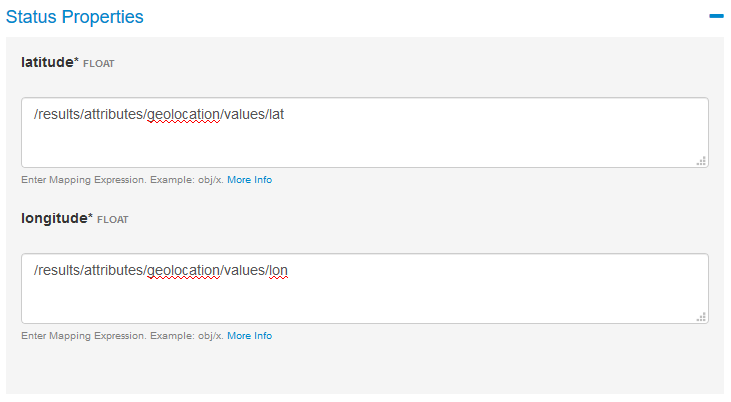
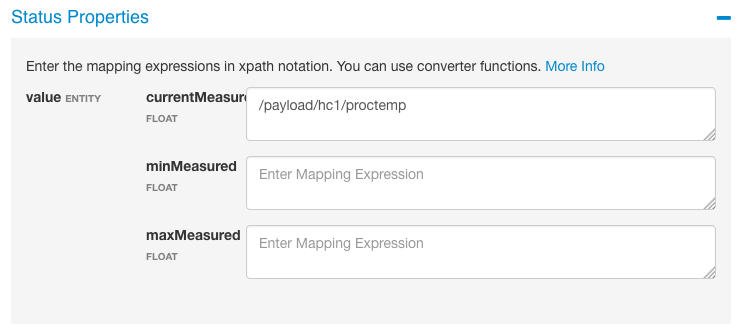
Feature/getting started mapping (#1935)
* Fixed css for mapping editor. Updated screenshots for getting started

* fixed bug with search public models by namespace

diff --git a/repository/repository-web/dist/partials/mapping/includes/fbmapping-template.html b/repository/repository-web/dist/partials/mapping/includes/fbmapping-template.html
@@ -62,7 +62,7 @@
 			    								<label ng-show="isEnumModel(entityProperty)" for="{{entityProperty.name}}" class="col-sm-2 col-form-label">{{entityProperty.name}} <small style="color:grey;font-size:10px">ENUM</small></label>
 			    								<div class="col-sm-10">
 			    								    <textarea ng-required="entityProperty.mandatory" ng-disabled="state !== 'Draft'" placeholder="Enter Mapping Expression" class="form-control" name="{{entityProperty.name}}" id="{{entityProperty.name}}" ng-model="entityProperty.stereotypes[0].attributes['xpath']"></textarea>
-			    									<span class="error" ng-show="{{property.name}}MappingForm.{{statusProperty.name}}.$error.required && entityProperty.mandatory" style="color:red;font-size:12px">Cannot be blank<br></span>    		
+			    									<span class="error" ng-show="{{property.name}}MappingForm.{{entityProperty.name}}.$error.required && entityProperty.mandatory" style="color:red;font-size:12px">Cannot be blank<br></span>    		
 			    								</div>
   											</div>
 										</div>
@@ -91,7 +91,7 @@
     											<label for="{{entityProperty.name}}" class="col-sm-2 col-form-label">{{entityProperty.name}} <small style="color:grey;font-size:10px">{{entityProperty.type}}</small></label>
 			    								<div class="col-sm-10">
 			    								    <textarea ng-required="entityProperty.mandatory" ng-disabled="state !== 'Draft'" placeholder="Enter Mapping Expression" class="form-control" name="{{entityProperty.name}}" id="{{entityProperty.name}}" ng-model="entityProperty.stereotypes[0].attributes['xpath']"></textarea>
-			    									<span class="error" ng-show="{{property.name}}MappingForm.{{statusProperty.name}}.$error.required && entityProperty.mandatory" style="color:red;font-size:12px">Cannot be blank<br></span>    		
+			    									<span class="error" ng-show="{{property.name}}MappingForm.{{entityProperty.name}}.$error.required && entityProperty.mandatory" style="color:red;font-size:12px">Cannot be blank<br></span>    		
 			    								</div>
   											</div>
 										</div>

diff --git a/repository/repository-web/dist/partials/mapping/mappingcreator.html b/repository/repository-web/dist/partials/mapping/mappingcreator.html
@@ -76,15 +76,15 @@
 				<uib-tabset justified="false">
 					<uib-tab heading="Canonical">
 						Eclipse Vorto canonical format
-		  				<pretty-json json="canonical" style="height: 200px;"></pretty-json>
+		  				<pretty-json json="canonical"></pretty-json>
 					</uib-tab>
 					<uib-tab heading="AWS IoT">
 						Update command for AWS IoT Shadow Service
-		  				<pretty-json json="awsiot" style="height: 200px;"></pretty-json>
+		  				<pretty-json json="awsiot"></pretty-json>
 					</uib-tab>
 					<uib-tab heading="Eclipse Ditto">
 						Update command for Eclipse Ditto Service
-		  				<pretty-json json="ditto" style="height: 200px;"></pretty-json>
+		  				<pretty-json json="ditto"></pretty-json>
 					</uib-tab>
 				</uib-tabset>
 			</div>

diff --git a/repository/repository-web/dist/js/controllers/manage/tenantManagement.js b/repository/repository-web/dist/js/controllers/manage/tenantManagement.js
@@ -204,7 +204,7 @@ repositoryControllers.controller("tenantManagementController",
 					};
 					
 					$scope.getPublicModelsForTenant = function() {
-						$http.get("./rest/search/public?tenantId="+tenant.tenantId).success(
+						$http.get("./rest/search/public?namespace="+tenant.defaultNamespace).success(
                             function(data, status, headers, config) {
                             	console.log(data);
                                 $scope.hasPublicModels = data.length > 0;

diff --git a/repository/repository-core/src/main/java/org/eclipse/vorto/repository/web/api/v1/ImportController.java b/repository/repository-core/src/main/java/org/eclipse/vorto/repository/web/api/v1/ImportController.java
@@ -30,6 +30,7 @@ import org.eclipse.vorto.repository.importer.IModelImporter;
 import org.eclipse.vorto.repository.importer.UploadModelResult;
 import org.eclipse.vorto.repository.tenant.ITenantService;
 import org.eclipse.vorto.repository.tenant.TenantDoesntExistException;
+import org.eclipse.vorto.repository.web.AbstractRepositoryController;
 import org.eclipse.vorto.repository.web.api.v1.dto.ImporterInfo;
 import org.eclipse.vorto.repository.web.core.exceptions.UploadTooLargeException;
 import org.eclipse.vorto.repository.workflow.IWorkflowService;
@@ -55,7 +56,7 @@ import io.swagger.annotations.ApiParam;
  */
 @RestController
 @RequestMapping(value = "/api/v1/importers")
-public class ImportController {
+public class ImportController extends AbstractRepositoryController {
 
   private final Logger LOGGER = LoggerFactory.getLogger(getClass());
 
@@ -127,7 +128,7 @@ public class ImportController {
       return new ResponseEntity<List<ModelInfo>>(importedModels, HttpStatus.OK);
     } catch (Exception e) {
       LOGGER.error("Error Importing model. " + handleId, e);
-      return new ResponseEntity<>(HttpStatus.BAD_REQUEST);
+      throw new IllegalArgumentException("Could not import with handle ID "+handleId, e);
     }
   }
 

diff --git a/repository/repository-core/src/main/java/org/eclipse/vorto/repository/web/core/ModelSearchController.java b/repository/repository-core/src/main/java/org/eclipse/vorto/repository/web/core/ModelSearchController.java
@@ -16,6 +16,7 @@ import java.util.ArrayList;
 import java.util.Collection;
 import java.util.Collections;
 import java.util.Comparator;
+import java.util.List;
 import java.util.stream.Collectors;
 import org.eclipse.vorto.model.ModelType;
 import org.eclipse.vorto.repository.core.ModelInfo;
@@ -65,7 +66,11 @@ public class ModelSearchController extends AbstractRepositoryController {
   
   @RequestMapping(value = "/public", method = RequestMethod.GET)
   @PreAuthorize("hasRole('ROLE_USER')")
-  public Collection<ModelInfo> getPublicModels() {
-    return searchService.search("visibility:public");
+  public Collection<ModelInfo> getPublicModels(@RequestParam("namespace") String namespace) {
+    List<ModelInfo> models = searchService.search("visibility:public");
+    if (namespace != null) {
+      models = models.stream().filter(model -> model.getId().getNamespace().startsWith(namespace)).collect(Collectors.toList());
+    }
+    return models;
   }
 }

diff --git a/mapping-engine/Readme.md b/mapping-engine/Readme.md
@@ -20,7 +20,7 @@ In this tutorial, we are going to walk you through the process of creating a Vor
 To work through this tutorial, you will need:
 
 - [BoschID](https://accounts.bosch-iot-suite.com/) or [GitHub](https://github.com/) account to log in to the Vorto Repository
-- A [Vorto Information Model](https://vorto.eclipse.org/#/details/org.eclipse.vorto.tutorials:RaspberryPi:1.0.0), managed in the Vorto Repository
+- You have described a device as a [Vorto Information Model](../docs/tutorials/describe_device-in-5min.md) and it is managed in the Vorto Repository
 - You are a collaborator/owner of a namespace
 
 <br />
@@ -41,9 +41,26 @@ Once you have written your xpath expressions, press Save.
 
 ## Step 2: Test the Mapping Specification
 
-On the right handside, define the arbitrary device payload (in JSON format) and click **Map**: 
+On the right handside, select "JSON' as content type and paste the device raw data in the JSON editor. Test your mapping rule by clicking **Test Mapping**: 
 
 ![mapping editor test](./docs/mapping_editor_test.png)
+
+The test result will give you the mapped data for different IoT platforms. 
+
+The Vorto (canonical) format looks like:
+
+![Vorto canonical format](./docs/output_canonical.png)
+
+
+The AWS IoT Shadow update command format looks like:
+
+![Vorto canonical format](./docs/output_aws.png)
+
+
+The Eclipse Ditto update command format looks like:
+
+![Vorto canonical format](./docs/output_ditto.png)
+
 
 
 ## Step 3: Download & Execute Mapping Specification
@@ -96,21 +113,39 @@ if (!validationReport.isValid()) {
 
 **5.** Convert mapped data to Digital Twin IoT compliant data
  
-Convert the mapped data to IoT Platform data. The mapping engine provides a useful utility in order to create a JSON object complying to the Eclipse Ditto protocol:
+Convert the normalized Vorto compliant data to a target IoT platform format.
+
+Currently supported target IoT Platform formats
+
+* AWS IoT Shadow Service
+* Eclipse Ditto Service
+
+The following example shows how to convert the normalized data to **AWS IoT Shadow Update Command**:
 
 ```Java
 import com.google.gson.JsonObject;
-import org.eclipse.vorto.mapping.engine.twin.TwinPayloadFactory;
+import org.eclipse.vorto.mapping.targetplatform.awsiot.TwinPayloadFactory;
 ...
 
-final String dittoNamespace = "org.mycompany";
-final String dittoNamespaceSuffix = "123";
-JSONObject dittoPayload = TwinPayloadFactory.toDittoProtocol(mappedData, dittoNamespace, dittoNamespaceSuffix);
+JSONObject updateRequestAWSIoT = TwinPayloadFactory.toShadowUpdateRequest(mappedData);
 
-sendToDitto(dittoPayload);
+sendToAWSIoTShadow(updateRequestAWSIoT,"com.acme:4711");
 ```
 
 <br />
+
+The following example shows how to convert the normalized data to **Eclipse Ditto Update Command**:
+
+```Java
+import com.google.gson.JsonObject;
+import org.eclipse.vorto.mapping.targetplatform.ditto.TwinPayloadFactory;
+...
+
+JSONObject updateRequestDitto = TwinPayloadFactory.toDittoProtocol(mappedData,"com.acme:4711");
+
+sendToEclipseDitto(updateRequestDitto);
+```
+
 
 ## Advanced Usage
 
@@ -166,6 +201,7 @@ For security reasons, the following restrictions apply when processing these con
 #### Example
 
 In the following example, a custom (Javascript) converter is defined in a Function Block mapping, that converts a click amount as a **String** to an **Integer** value:
+
 ```java
 namespace devices.aws.button.mapping
 version 1.0.0
@@ -180,7 +216,7 @@ functionblockmapping ButtonPayloadMapping {
 
 	// Definition of Converter functions which can be used from within the function block mapping
 	from Push_button to functions with 
-		{convertClickType: "function convertClickType(clickType) { if (clickType === 'SINGLE') return 1; else if 	  		(clickType === 'DOUBLE') return 2; else return -1;}"}
+		{convertClickType: "function convertClickType(clickType) { if (clickType === 'SINGLE') return 1; else    if (clickType === 'DOUBLE') return 2; else return -1;}"}
 
 	// Usage of the converter function in the mapping rule expression
 	from Push_button.status.digital_input_count to source with {xpath: "button:convertClickType(/clickType)"}
@@ -213,7 +249,7 @@ from Illuminance to condition with {value:"header.type == 'I'"}
 
 # What's next ?
 
+- [Vorto Mapping Engine in action](https://github.com/eclipse/vorto-examples/tree/master/vorto-hono-subscriber/Readme.md). Tutorial that uses Vorto Mappings to convert Geolocation sensor data.
 - Understand the [Mapping Specification Syntax](./docs/mapping_syntax.md)
-- [Normalize device telemetry data](https://github.com/eclipse/vorto-examples/tree/master/vorto-hono-subscriber/Readme.md), that was received from Eclipse Hono supported protocol adapters
 
 
